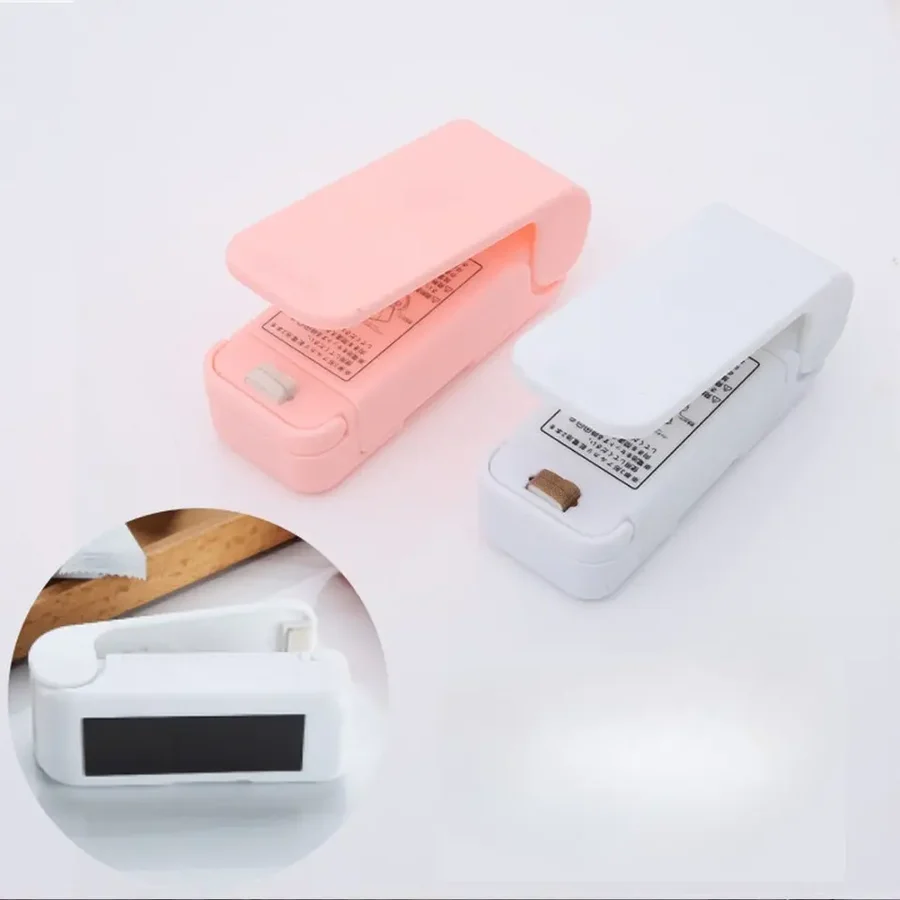
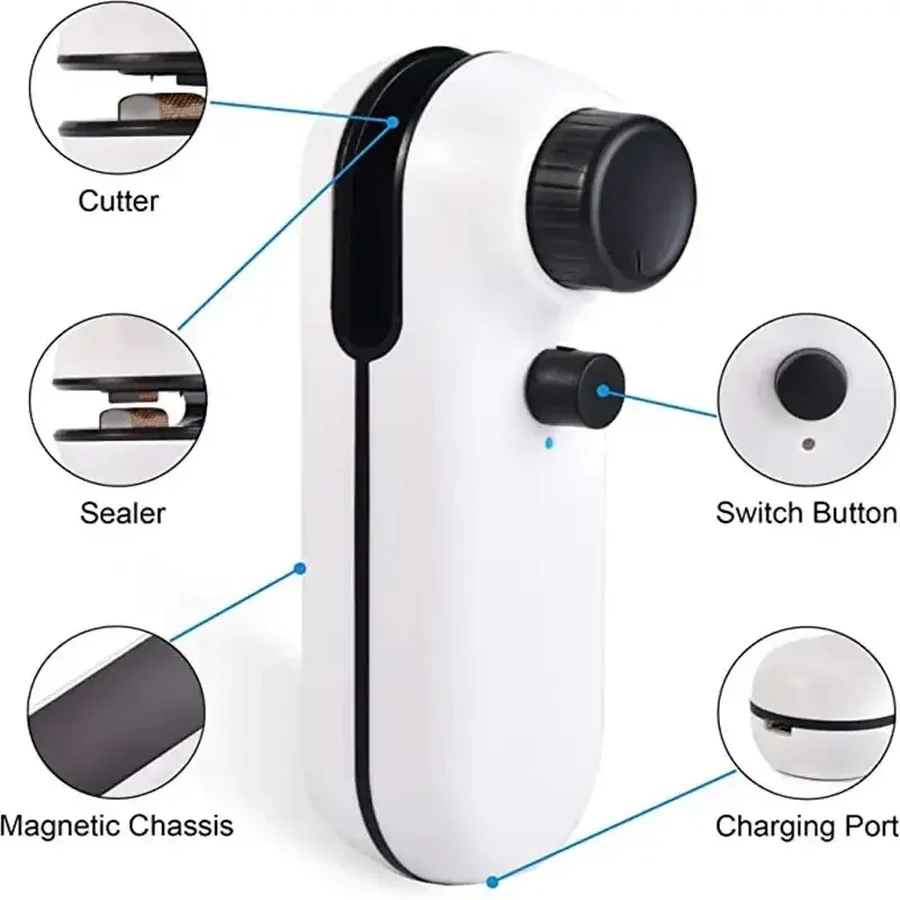
Switch to rechargeable 2-in-1 sealer: new white photos, bundle pricing, sourced reviews

diff --git a/index.html b/index.html
@@ -36,29 +36,43 @@
 
     <div>
       <div class="gallery-main">
-        <img id="mainImage" src="bilder/produkt-2.webp" alt="Mini Sealer in white">
+        <img id="mainImage" src="bilder/produkt-1.webp" alt="Mini Sealer with USB-C charging cable">
       </div>
       <div class="thumbs" id="thumbs">
-        <button aria-current="true"><img src="bilder/produkt-2.webp" alt="Mini Sealer in white"></button>
-        <button><img src="bilder/produkt-3.webp" alt="Mini Sealer, closed and open"></button>
-        <button><img src="bilder/produkt-1.webp" alt="Sealing a snack bag"></button>
-        <button><img src="bilder/produkt-4.webp" alt="Size: 9.5 x 3.5 x 3.5 cm"></button>
-        <button><img src="bilder/produkt-6.webp" alt="Mini Sealer held in one hand"></button>
-        <button><img src="bilder/produkt-5.webp" alt="Opening a sealed bag"></button>
+        <button aria-current="true"><img src="bilder/produkt-1.webp" alt="Mini Sealer and charging cable"></button>
+        <button><img src="bilder/produkt-2.webp" alt="Mini Sealer, side view"></button>
+        <button><img src="bilder/produkt-3.webp" alt="Sealer, cutter, magnetic base and charging port"></button>
+        <button><img src="bilder/produkt-4.webp" alt="Mini Sealer held on a fridge door by its magnet"></button>
+        <button><img src="bilder/produkt-5.webp" alt="Sealing a coffee bag"></button>
       </div>
     </div>
 
     <div>
       <h1>Mini Sealer</h1>
-      <div class="price">$24.99</div>
+      <div class="price" id="price">$24.99</div>
+
+      <div class="bundles" id="bundles">
+        <button class="bundle" data-pack="1" data-price="$24.99" aria-current="true">
+          <span class="b-name">1 Sealer</span>
+          <span class="b-price">$24.99</span>
+        </button>
+        <button class="bundle" data-pack="2" data-price="$39.99" data-save="Save $10">
+          <span class="b-name">2 Sealers</span>
+          <span class="b-price">$39.99 <s>$49.98</s></span>
+          <span class="b-tag">Most popular</span>
+        </button>
+        <button class="bundle" data-pack="3" data-price="$54.99" data-save="Save $20">
+          <span class="b-name">3 Sealers</span>
+          <span class="b-price">$54.99 <s>$74.97</s></span>
+          <span class="b-tag">Best value</span>
+        </button>
+      </div>
 
       <!-- ================================================================
-           STRIPE: bytt lenka under med din eigen Payment Link frå Stripe.
-           Den ser slik ut:  https://buy.stripe.com/xxxxxxxxxxxx
-           Dette er den EINASTE staden du treng å endre noko.
+           STRIPE: lag TRE Payment Links (1, 2 og 3 stk) og lim dei inn
+           under. Det er den einaste staden du treng å endre noko.
            ================================================================ -->
-      <a class="btn-buy" id="buyButton"
-         href="https://buy.stripe.com/DIN-LENKE-HER">Pay Now</a>
+      <a class="btn-buy" id="buyButton" href="https://buy.stripe.com/LENKE-1-STK">Pay Now</a>
 
       <div class="assurance">
         <div><span class="ico">🚚</span>Free Shipping</div>
@@ -74,10 +88,11 @@
              back, no hard feelings.</p>
           <p><strong>Here's what you're getting:</strong></p>
           <ul>
-            <li>An airtight heat seal on any plastic bag in one quick pass</li>
-            <li>Compact at 9.5 × 3.5 × 3.5 cm — it lives in a drawer, not on your counter</li>
-            <li>Runs on 2 AA batteries, so there is no cable and no charging (batteries not included)</li>
-            <li>A straightforward tool that does exactly what it promises</li>
+            <li>Seals any plastic bag airtight in one pass — chips, coffee, pasta, frozen food</li>
+            <li>Built-in cutter opens the bag again cleanly, so it does both jobs</li>
+            <li>USB-C rechargeable — no batteries to buy, and no cable left plugged in</li>
+            <li>Magnetic base: it lives on the fridge door instead of lost in a drawer</li>
+            <li>Lit power switch so you can see when it is on</li>
           </ul>
           <p>For $24.99, the only real risk is leaving food to go stale without one.</p>
         </div>
@@ -101,8 +116,8 @@
         <div class="body">
           <ul>
             <li>Wipe the sealing strip clean when it is cool — never rinse the unit</li>
+            <li>Charge with the supplied USB-C cable; a full charge lasts weeks of normal use</li>
             <li>Store in a cool, dry place away from direct sunlight</li>
-            <li>Remove the batteries if you are putting it away for a long period</li>
           </ul>
         </div>
       </details>
@@ -132,21 +147,37 @@
       </div>
     </div>
 
-    <!-- ==================================================================
-         EKTE OMTALAR: når ein kunde faktisk har kjøpt og sagt noko fint,
-         kopier blokka under, fyll inn, og lim den inn her. Berre ekte.
+    <div class="reviews-src">
+      <h3>What buyers say about this sealer</h3>
+      <p class="src-note">These reviews are from verified purchases of this exact model on our
+         supplier's AliExpress listing — 4.9 out of 5 from 653 reviews. They are not FreshSeal
+         customers, because FreshSeal is new. We show them so you can judge the product itself.</p>
 
-         <article class="review">
-           <div class="stars">★★★★★</div>
-           <h4>Overskrifta til kunden</h4>
-           <p>Det kunden faktisk skreiv.</p>
-           <div class="who">Fornamn E. · Verified order · Land</div>
-         </article>
-         ================================================================== -->
+      <article class="review">
+        <div class="stars">★★★★★</div>
+        <p>"Very practical, with an illuminated on/off switch for safety. It has a small blade to open
+           packages by turning it, or to cut excess material when sealing in the normal position."</p>
+        <div class="who">E***r · verified purchase · 8 January 2026 · white</div>
+      </article>
+
+      <article class="review">
+        <div class="stars">★★★★★</div>
+        <p>"The truth is that it works quite well, and the fact that it is rechargeable and has a
+           magnetic base lets you keep it in your kitchen without any problem."</p>
+        <div class="who">Verified purchase · 6 December 2025</div>
+      </article>
+
+      <article class="review">
+        <div class="stars">★★★★★</div>
+        <p>"Better than the cheaper versions. It seals well and heats up immediately after turning on,
+           which makes securing the packaging easier and more efficient."</p>
+        <div class="who">I***k · verified purchase · 1 November 2025</div>
+      </article>
+    </div>
 
     <div class="reviews-empty">
-      <p>No customer reviews yet — this shop is new. Every review that appears here will come from
-         someone who actually ordered and actually wrote it.</p>
+      <p>No FreshSeal reviews yet — we have only just opened. Yours would be the first, and it will
+         appear here exactly as you write it.</p>
     </div>
   </div>
 </section>
@@ -178,6 +209,26 @@
 </footer>
 
 <script>
+  // ---- Stripe Payment Links: éi per pakkestorleik ----
+  var STRIPE = {
+    1: "https://buy.stripe.com/LENKE-1-STK",
+    2: "https://buy.stripe.com/LENKE-2-STK",
+    3: "https://buy.stripe.com/LENKE-3-STK"
+  };
+
+  var bundles = document.getElementById('bundles');
+  var buy = document.getElementById('buyButton');
+  var priceEl = document.getElementById('price');
+  bundles.addEventListener('click', function (e) {
+    var btn = e.target.closest('.bundle');
+    if (!btn) return;
+    Array.prototype.forEach.call(bundles.children, function (b) {
+      b.setAttribute('aria-current', b === btn ? 'true' : 'false');
+    });
+    priceEl.textContent = btn.dataset.price;
+    buy.href = STRIPE[btn.dataset.pack];
+  });
+
   var thumbs = document.getElementById('thumbs');
   var main = document.getElementById('mainImage');
   thumbs.addEventListener('click', function (e) {

diff --git a/style.css b/style.css
@@ -382,3 +382,74 @@ table.ship th { font-size: 12px; letter-spacing: 0.08em; text-transform: upperca
   .promise-grid { grid-template-columns: 1fr; gap: 28px; }
   .promise { padding: 44px 0 56px; }
 }
+
+/* ---------- bundles ---------- */
+
+.bundles {
+  display: grid;
+  gap: 10px;
+  margin: 4px 0 18px;
+}
+
+.bundle {
+  position: relative;
+  display: flex;
+  align-items: baseline;
+  justify-content: space-between;
+  gap: 12px;
+  width: 100%;
+  padding: 15px 18px;
+  border: 1.5px solid var(--line);
+  border-radius: 8px;
+  background: var(--surface);
+  cursor: pointer;
+  font: inherit;
+  text-align: left;
+  transition: border-color .15s, background .15s;
+}
+
+.bundle:hover { border-color: #bdbab0; }
+.bundle[aria-current="true"] { border-color: var(--ink); background: #fdfdfb; }
+
+.bundle .b-name { font-weight: 600; font-size: 15px; }
+.bundle .b-price { font-size: 15px; font-variant-numeric: tabular-nums; }
+.bundle .b-price s { color: var(--ink-soft); margin-left: 6px; font-size: 13.5px; }
+
+.bundle .b-tag {
+  position: absolute;
+  top: -9px;
+  left: 14px;
+  background: var(--ink);
+  color: #fff;
+  font-size: 10.5px;
+  letter-spacing: .07em;
+  text-transform: uppercase;
+  padding: 3px 8px;
+  border-radius: 20px;
+}
+
+/* ---------- sourced reviews ---------- */
+
+.reviews-src {
+  max-width: 720px;
+  margin: 52px auto 0;
+  padding-top: 40px;
+  border-top: 1px solid var(--line);
+  text-align: left;
+}
+
+.reviews-src h3 {
+  font-size: 19px;
+  margin: 0 0 8px;
+  font-weight: 600;
+  letter-spacing: -.01em;
+  text-align: center;
+}
+
+.reviews-src .src-note {
+  color: var(--ink-soft);
+  font-size: 13.5px;
+  margin: 0 auto 8px;
+  text-align: center;
+  max-width: 600px;
+}
